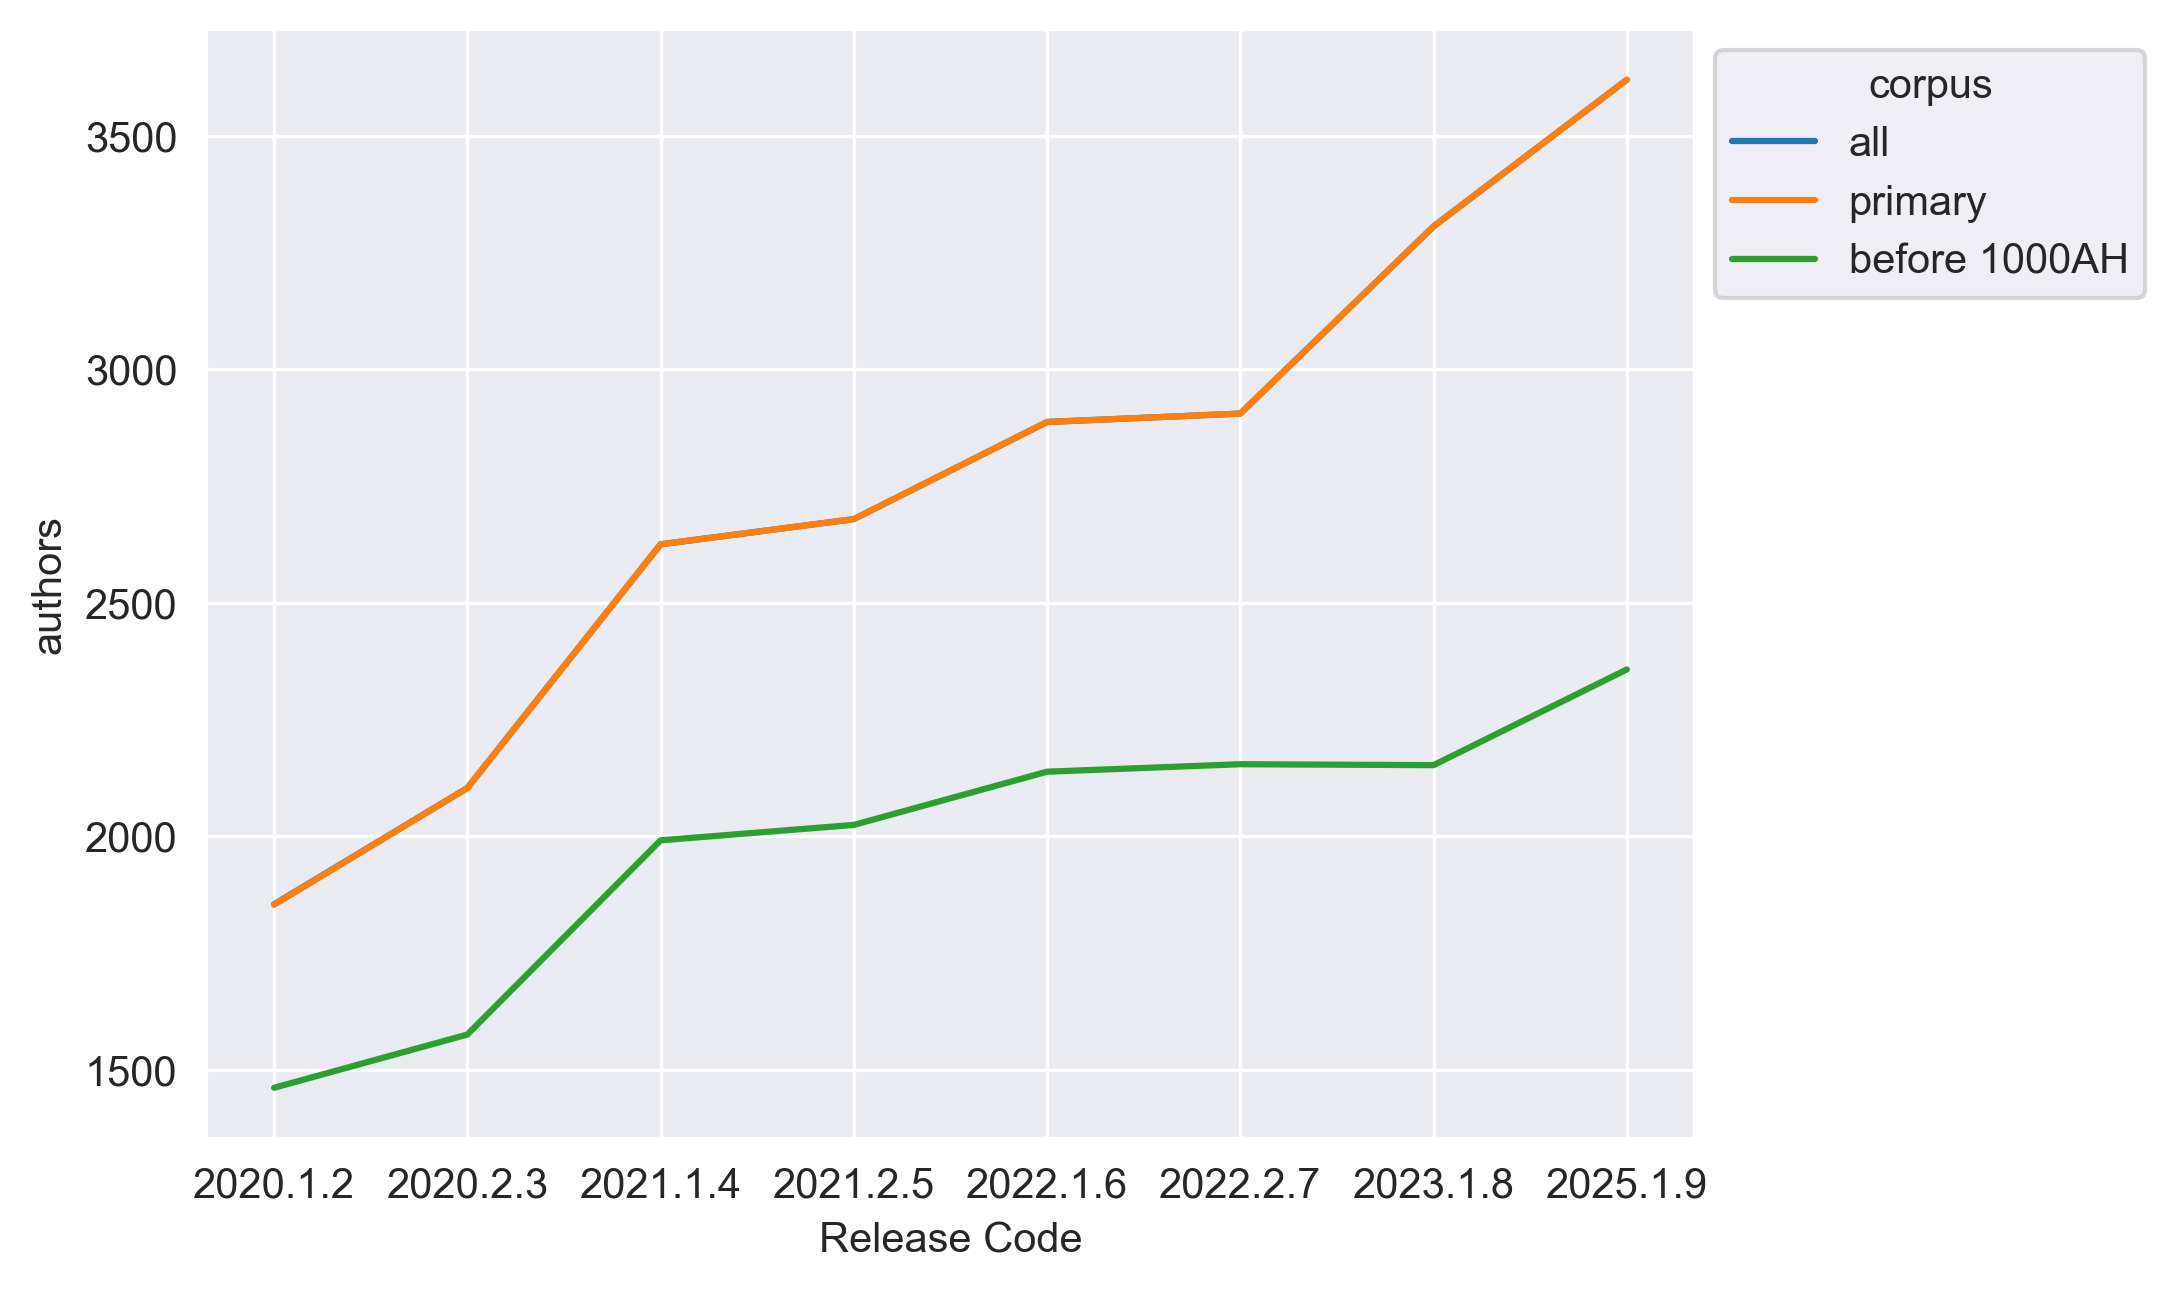
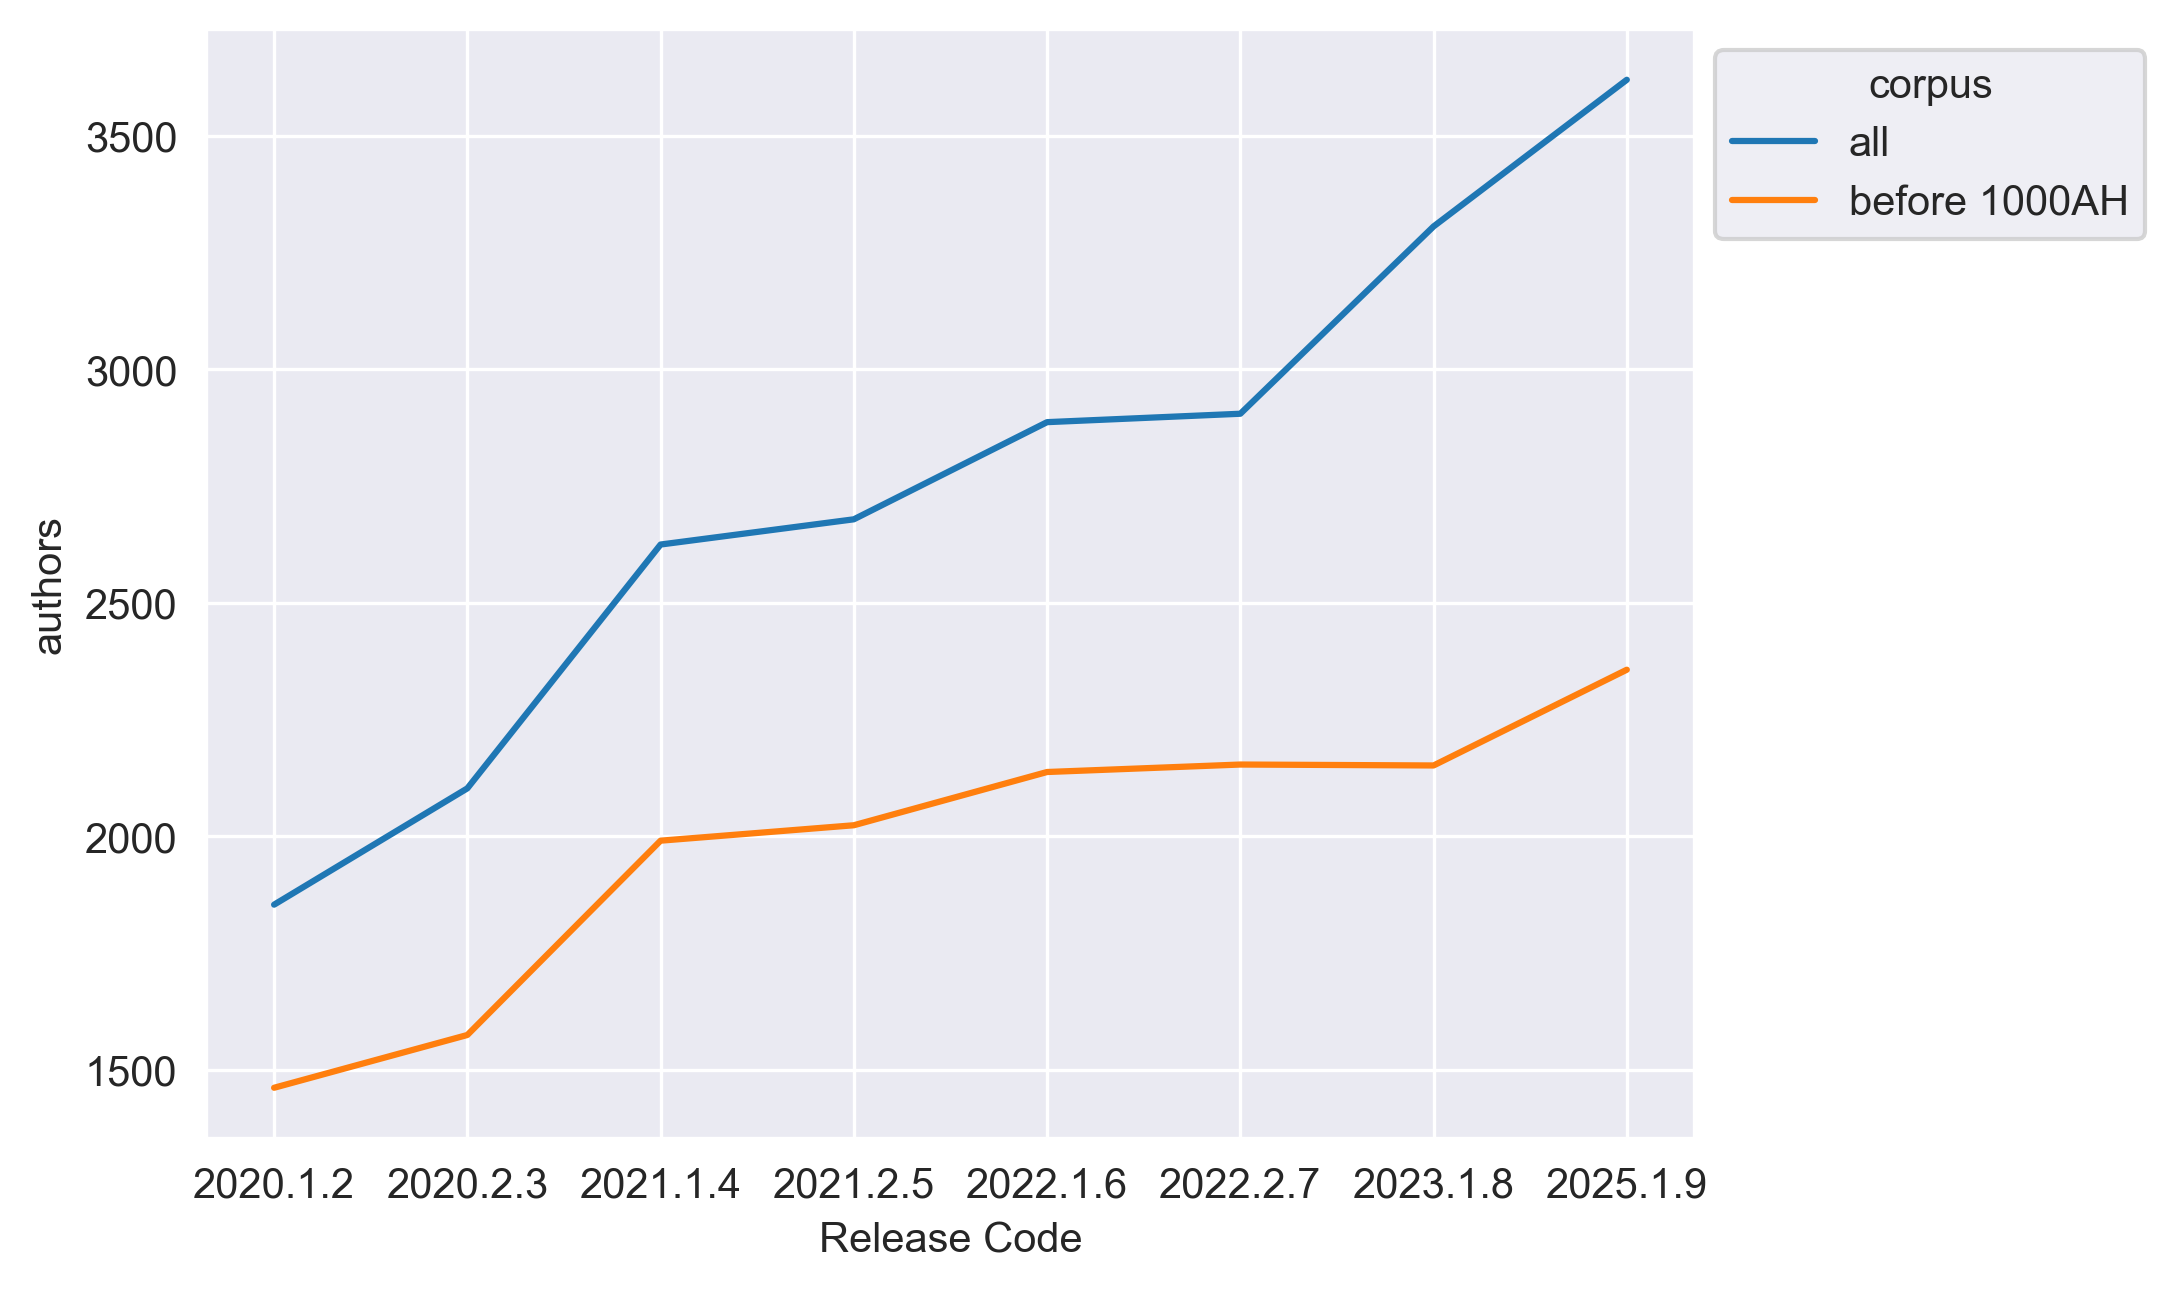
fixes to authors only

diff --git a/metadata/graph_corpus_change.py b/metadata/graph_corpus_change.py
@@ -53,11 +53,12 @@ def graph_corpus_change(metadata_paths_dicts, png_out_path, aggregate_stat = "wo
                 output_row = {"Release Code" : release_code, aggregate_stat: run_aggregate(metadata_obj, aggregate_stat), "corpus": "all"}
                 output_list.append(output_row)
 
-            # Evertime - filter to pri only and add to output
-            metadata_obj.pri_only()
+            # Evertime - filter to pri only and add to output - except authors as primary offers no distinction
+            if aggregate_stat != "authors":
+                metadata_obj.pri_only()
             
-            output_row = {"Release Code" : release_code, aggregate_stat: run_aggregate(metadata_obj, aggregate_stat), "corpus": "primary"}
-            output_list.append(output_row)
+                output_row = {"Release Code" : release_code, aggregate_stat: run_aggregate(metadata_obj, aggregate_stat), "corpus": "primary"}
+                output_list.append(output_row)
 
             if add_date_filter is not None:
                 metadata_obj.only_books_before_date(add_date_filter)
